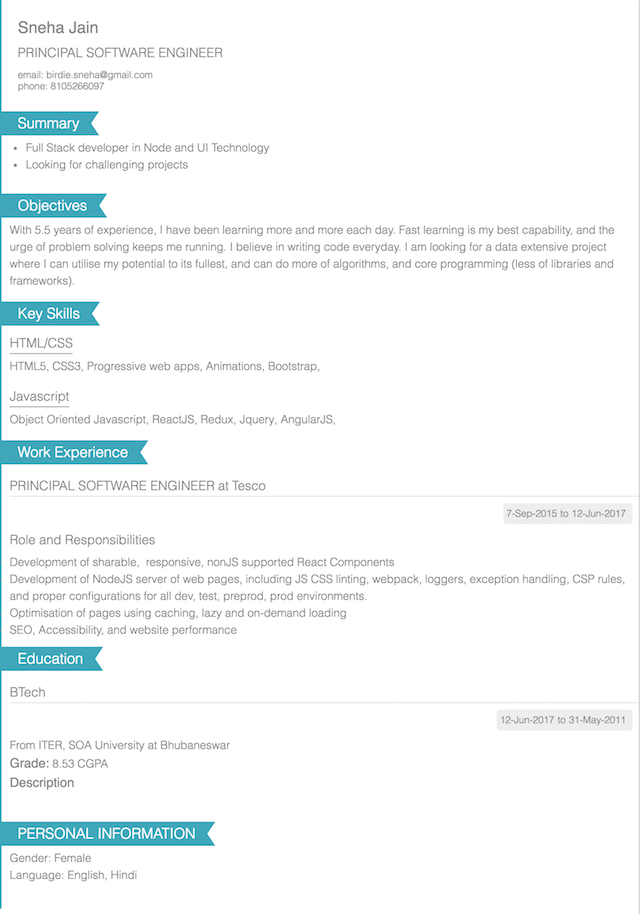
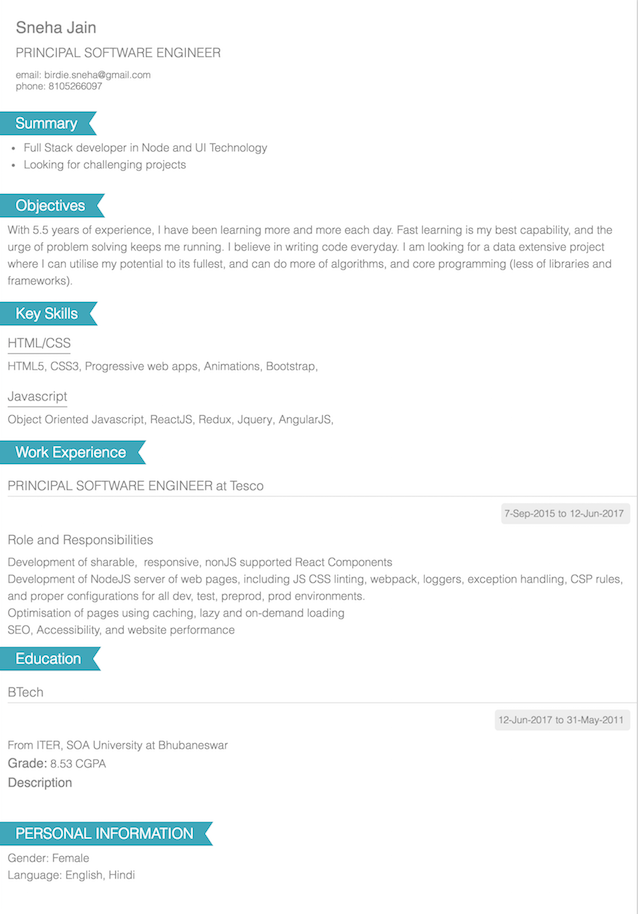
pdf changes

diff --git a/web/designs/design-3/small.less b/web/designs/design-3/small.less
@@ -1,10 +1,11 @@
 @import '../../common/styles/reset.less';
+@import '../../common/styles/print.less';
+
 .Design3 {
   color: #888;
   zoom: 0.75;
   font-weight: lighter;
   line-height: 1.2;
-  border-left: 4px solid #40A7BA;
   .mainDetails {
     padding: 25px 0 0 20px;
     position: relative;
@@ -61,23 +62,12 @@
         display: inline-block;
         font-size: 18px;
         background-color: #40A7BA;
-        padding: 0 0 0 20px;
+        padding: 0 20px;
         line-height: 30px;
         color: #fff;
         font-weight: 100;
         position: relative;
         margin: 5px 0;
-        &:after{
-          content:'';
-          width: 0;
-          height: 0;
-          border-width: 15px;
-          border-style: solid;
-          border-color: #40A7BA;
-          position: absolute;
-          right: -25px;
-          border-right: 10px solid #fff;
-        }
       }
       .sectionContent {
         padding-left: 10px;

diff --git a/tools/generate-pdf.js b/tools/generate-pdf.js
@@ -17,7 +17,20 @@ const generatePDF = ({html, filename}, promise) => {
   module = promise;
   try {
     pdf.create(html, {
-      format: 'A4'
+      format: 'A4',
+      border: {
+        top: '24px',
+        bottom: 0,
+        left: 0,
+        right: 0
+      },
+      zoomFactor: 0.5,
+      footer: {
+        height: '20px',
+        contents: {
+          default: '<span style="color: #ccc; font-size: 11px; float: right; padding-right: 15px">Generated by www.cvmaker.co.in</span>'
+        }
+      }
     }).toFile(path.join(__dirname,`../pdf/${filename}.pdf`), (error, response) => {
       if (error) {
         module.reject(error);

diff --git a/web/pages/preview/small.less b/web/pages/preview/small.less
@@ -10,13 +10,23 @@
   }
   .error {
     margin-top: 120px;
+    color: #ff4081;
+    text-align: center;
+    font-size: 16px;
+    font-weight: bold;
   }
   .card {
     width: 100%;
     overflow: auto;
     margin: 24px auto;
+    .cardtext {
+      padding: 0 !important;
+      width: 768px;
+      margin: auto;
+      box-shadow: rgba(0, 0, 0, 0.12) 0px 1px 6px, rgba(0, 0, 0, 0.12) 0px 1px 4px;
+    }
   }
   div[class^='Design'] {
-    zoom: 1;  
+    zoom: 1;
   }
 }

diff --git a/web/designs/design-4/small.less b/web/designs/design-4/small.less
@@ -1,4 +1,6 @@
 @import '../../common/styles/reset.less';
+@import '../../common/styles/print.less';
+
 .Design4 {
   color: #888;
   zoom: 0.75;
@@ -58,7 +60,7 @@
       .sectionContent {
         display: inline-block;
         vertical-align: top;
-        border-left: 2px solid #40A7BA;
+        /*border-left: 2px solid #40A7BA;*/
         width: 70%;
         box-sizing: border-box;
         padding: 10px 10px 0px 20px;

diff --git a/web/pages/home/index.js b/web/pages/home/index.js
@@ -96,7 +96,6 @@ class Home extends React.Component {
             <img src="/cvimages/design1.png"/>
             <img src="/cvimages/design2.png"/>
             <img src="/cvimages/design3.png"/>
-            <img src="/cvimages/design4.png"/>
           </div>
         </ScrollElement>
         <ScrollElement className="messageSection" id="contact">

diff --git a/web/pages/preview/index.js b/web/pages/preview/index.js
@@ -71,7 +71,7 @@ class Preview extends React.Component {
         </Toolbar>
         <div className="error">{this.state.error}</div>
         <Card className="card">
-          <CardText style={{padding: 0, width: '768px'}} >
+          <CardText className="cardtext" >
             <Comp data={this.cvdata} />
           </CardText>
         </Card>

diff --git a/web/common/styles/print.less b/web/common/styles/print.less
@@ -1,0 +1,11 @@
+.skillInfo .sectionContent > ul > li,
+.portfolioInfo .sectionContent > ul > li,
+.workInfo .sectionContent > ul > li,
+.educationInfo .sectionContent > ul > li,
+.othersInfo .sectionContent > ul > li {
+  page-break-inside: avoid;
+} 
+
+div[class^='Design'] {
+  padding-right: 15px;
+}

diff --git a/web/pages/design/index.js b/web/pages/design/index.js
@@ -15,8 +15,7 @@ import './small.less';
 const tilesData = [
   {img: 'cvimages/design1'},
   {img: 'cvimages/design2'},
-  {img: 'cvimages/design3'},
-  {img: 'cvimages/design4'}
+  {img: 'cvimages/design3'}
 ];
 
 

diff --git a/web/designs/design-1/small.less b/web/designs/design-1/small.less
@@ -1,4 +1,6 @@
 @import '../../common/styles/reset.less';
+@import '../../common/styles/print.less';
+
 .Design1 {
   color: #888;
   zoom: 0.75;

diff --git a/web/designs/design-2/small.less b/web/designs/design-2/small.less
@@ -1,4 +1,6 @@
 @import '../../common/styles/reset.less';
+@import '../../common/styles/print.less';
+
 .Design2 {
   color: #888;
   zoom: 0.75;
